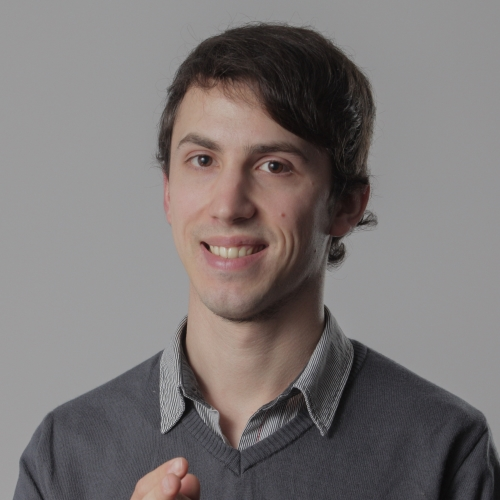
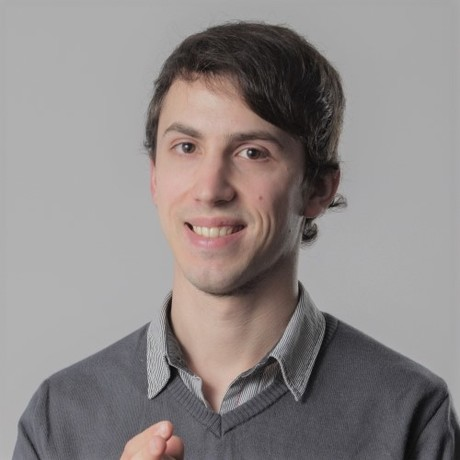
Add tincho

diff --git a/index.html b/index.html
@@ -929,7 +929,7 @@
 					</div>
 
 					<div class="row">
-						<div class="col-lg-4">
+						<div class="col-lg-6">
 							<div
 								class="member d-flex align-items-start"
 								data-aos="zoom-in"
@@ -949,16 +949,18 @@
 										Head and devote husband & father of 3. Data driven life.
 									</p>
 									<div class="social">
-										<a href=""><i class="ri-twitter-fill"></i></a>
+										<!-- <a href=""><i class="ri-twitter-fill"></i></a>
 										<a href=""><i class="ri-facebook-fill"></i></a>
-										<a href=""><i class="ri-instagram-fill"></i></a>
-										<a href="https://www.linkedin.com/in/nlarrateguy/"> <i class="ri-linkedin-box-fill"></i> </a>
+										<a href=""><i class="ri-instagram-fill"></i></a> -->
+										<a href="https://www.linkedin.com/in/nlarrateguy/">
+											<i class="ri-linkedin-box-fill"></i>
+										</a>
 									</div>
 								</div>
 							</div>
 						</div>
 
-						<div class="col-lg-4 mt-4 mt-lg-0">
+						<div class="col-lg-6">
 							<div
 								class="member d-flex align-items-start"
 								data-aos="zoom-in"
@@ -974,18 +976,20 @@
 								<div class="member-info">
 									<h4>Ramiro Álvarez</h4>
 									<span>COO</span>
-									<p>Full-time fisherman that happens to do Salesforce</p>
+									<p>Full-time fisherman that happens to do Salesforce.</p>
 									<div class="social">
-										<a href=""><i class="ri-twitter-fill"></i></a>
+										<!-- <a href=""><i class="ri-twitter-fill"></i></a>
 										<a href=""><i class="ri-facebook-fill"></i></a>
-										<a href=""><i class="ri-instagram-fill"></i></a>
-										<a href="https://www.linkedin.com/in/ramiro-a-alvarez/"> <i class="ri-linkedin-box-fill"></i> </a>
+										<a href=""><i class="ri-instagram-fill"></i></a> -->
+										<a href="https://www.linkedin.com/in/ramiro-a-alvarez/">
+											<i class="ri-linkedin-box-fill"></i>
+										</a>
 									</div>
 								</div>
 							</div>
 						</div>
 
-						<div class="col-lg-4 mt-4 mt-lg-0">
+						<div class="col-lg-6">
 							<div
 								class="member d-flex align-items-start"
 								data-aos="zoom-in"
@@ -1003,10 +1007,41 @@
 									<span>CTO</span>
 									<p>Restless and never-ending learner.</p>
 									<div class="social">
-										<a href=""><i class="ri-twitter-fill"></i></a>
+										<!-- <a href=""><i class="ri-twitter-fill"></i></a>
 										<a href=""><i class="ri-facebook-fill"></i></a>
-										<a href=""><i class="ri-instagram-fill"></i></a>
-										<a href="https://www.linkedin.com/in/nahuel-goldy/"> <i class="ri-linkedin-box-fill"></i> </a>
+										<a href=""><i class="ri-instagram-fill"></i></a> -->
+										<a href="https://www.linkedin.com/in/nahuel-goldy/">
+											<i class="ri-linkedin-box-fill"></i>
+										</a>
+									</div>
+								</div>
+							</div>
+						</div>
+
+						<div class="col-lg-6">
+							<div
+								class="member d-flex align-items-start"
+								data-aos="zoom-in"
+								data-aos-delay="300"
+							>
+								<div class="pic">
+									<img
+										src="assets/img/team/team-4.jpg"
+										class="img-fluid"
+										alt=""
+									/>
+								</div>
+								<div class="member-info">
+									<h4>Martín Pividori</h4>
+									<span>Sr Salesforce Dev</span>
+									<p>Tinchoman.</p>
+									<div class="social">
+										<!-- <a href=""><i class="ri-twitter-fill"></i></a>
+										<a href=""><i class="ri-facebook-fill"></i></a>
+										<a href=""><i class="ri-instagram-fill"></i></a> -->
+										<a href="https://www.linkedin.com/in/martinpividori/">
+											<i class="ri-linkedin-box-fill"></i>
+										</a>
 									</div>
 								</div>
 							</div>
@@ -1316,7 +1351,8 @@
 								</div>
 
 								<iframe
-									<iframe src="https://www.google.com/maps/embed?pb=!1m18!1m12!1m3!1d217135.5358735421!2d-60.6165642748962!3d-31.750157057896764!2m3!1f0!2f0!3f0!3m2!1i1024!2i768!4f13.1!3m3!1m2!1s0x95b44df2b9835231%3A0x554ebde0aa5cfa9a!2zUGFyYW7DoSwgRW50cmUgUsOtb3MsIEFyZ2VudGluYQ!5e0!3m2!1ses!2sbg!4v1631638636420!5m2!1ses!2sbg"
+									<iframe
+									src="https://www.google.com/maps/embed?pb=!1m18!1m12!1m3!1d217135.5358735421!2d-60.6165642748962!3d-31.750157057896764!2m3!1f0!2f0!3f0!3m2!1i1024!2i768!4f13.1!3m3!1m2!1s0x95b44df2b9835231%3A0x554ebde0aa5cfa9a!2zUGFyYW7DoSwgRW50cmUgUsOtb3MsIEFyZ2VudGluYQ!5e0!3m2!1ses!2sbg!4v1631638636420!5m2!1ses!2sbg"
 									frameborder="0"
 									style="border: 0; width: 100%; height: 290px"
 									allowfullscreen
@@ -1421,8 +1457,7 @@
 						<div class="col-lg-3 col-md-6 footer-contact">
 							<h3>Data Experts</h3>
 							<p>
-								Distributed <br />
-								Argentina
+								Distributed. Argentina. LATAM soon. <br />
 								<strong>Email:</strong> info@dataexperts.ar <br />
 							</p>
 						</div>
@@ -1485,7 +1520,11 @@
 									><i class="bx bxl-instagram"></i
 								></a> -->
 								<!-- a href="#" class="google-plus"><i class="bx bxl-skype"></i></a -->
-								<a href="https://www.linkedin.com/company/75054500/" class="linkedin"><i class="bx bxl-linkedin"></i></a>
+								<a
+									href="https://www.linkedin.com/company/75054500/"
+									class="linkedin"
+									><i class="bx bxl-linkedin"></i
+								></a>
 							</div>
 						</div>
 					</div>
@@ -1527,13 +1566,18 @@
 		<!-- Template Main JS File -->
 		<script src="assets/js/main.js"></script>
 		<!-- Global site tag (gtag.js) - Google Analytics -->
-		<script async src="https://www.googletagmanager.com/gtag/js?id=G-1DC3HFYY8W"></script>
-	<script>
-		  window.dataLayer = window.dataLayer || [];
-  function gtag(){dataLayer.push(arguments);}
-  gtag('js', new Date());
+		<script
+			async
+			src="https://www.googletagmanager.com/gtag/js?id=G-1DC3HFYY8W"
+		></script>
+		<script>
+			window.dataLayer = window.dataLayer || [];
+			function gtag() {
+				dataLayer.push(arguments);
+			}
+			gtag("js", new Date());
 
-  gtag('config', 'G-1DC3HFYY8W');
-	</script>
+			gtag("config", "G-1DC3HFYY8W");
+		</script>
 	</body>
 </html>

diff --git a/assets/css/style.css b/assets/css/style.css
@@ -1135,6 +1135,10 @@ section {
 /*--------------------------------------------------------------
 # Team
 --------------------------------------------------------------*/
+#team .row div {
+	margin-bottom: 10px;
+}
+
 .team .member {
 	position: relative;
 	box-shadow: 0px 2px 15px rgba(0, 0, 0, 0.1);
@@ -1146,7 +1150,7 @@ section {
 
 .team .member .pic {
 	overflow: hidden;
-	width: 180px;
+	max-width: 180px;
 	border-radius: 50%;
 }
 
